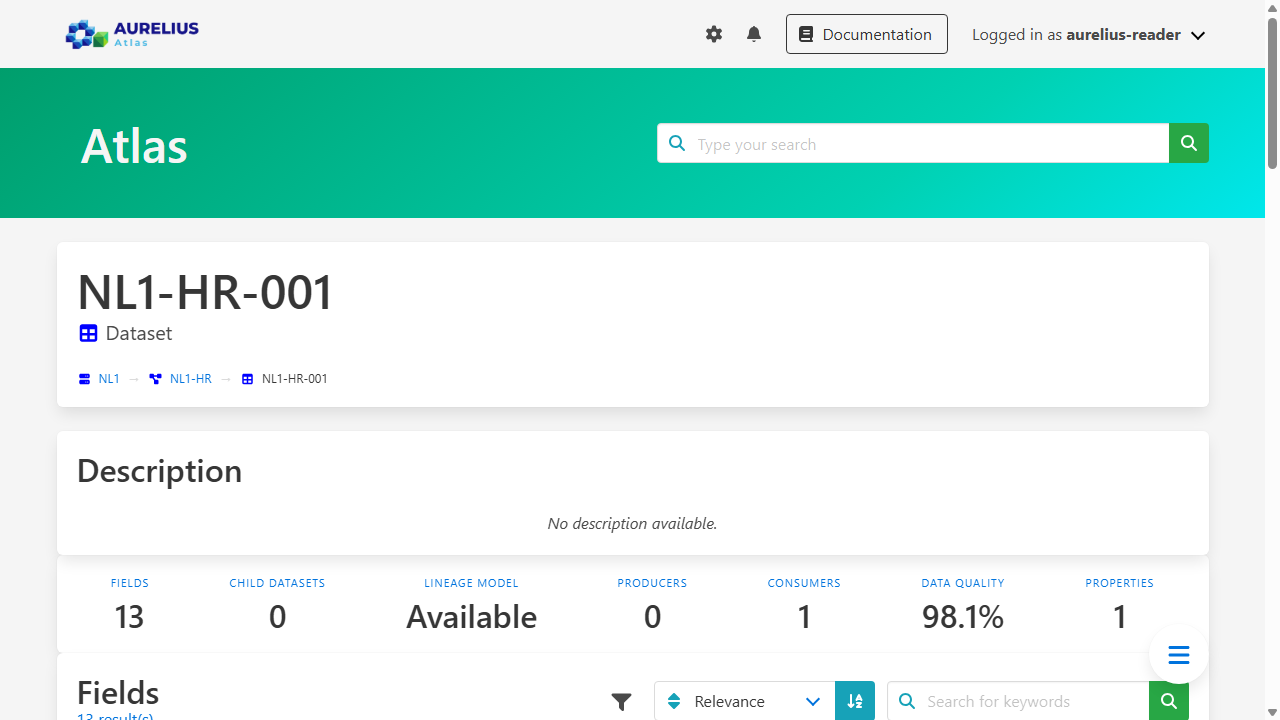
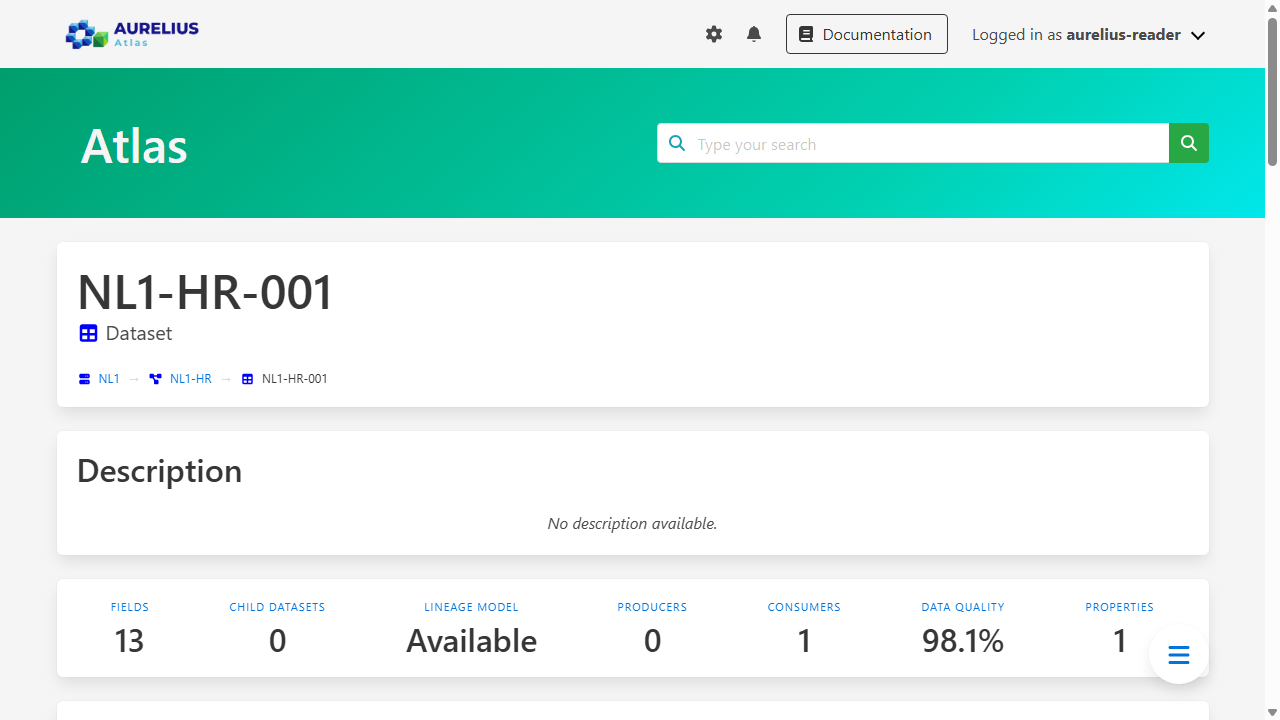
docs(user-guide): the entity-details screenshot shows the fixed spacing
The shot was captured while the summary/metrics bar sat flush against the
boxes above and below (the regression PR #488 fixes). Re-captured at
1280x720 from the running stack, reader account, same page. The sentence
above it no longer names the first card section, which the restored 24px
gaps now push below the fold.

diff --git a/docs/user-guide/understand-data.md b/docs/user-guide/understand-data.md
@@ -20,8 +20,8 @@ From the top:
 The pencil at the top right opens the editor. It appears only for a person who can write, and
 [Change data](change-data.md) covers what it lets you do.
 
-The dataset page below shows each part: the header, the Description box, the stats bar, and the
-first card section.
+The dataset page below shows each part: the header, the Description box, and the stats bar with the
+record's counts.
 
 ![The page of the sample dataset NL1-HR-001.](../assets/user-guide/entity-details.png)
 
